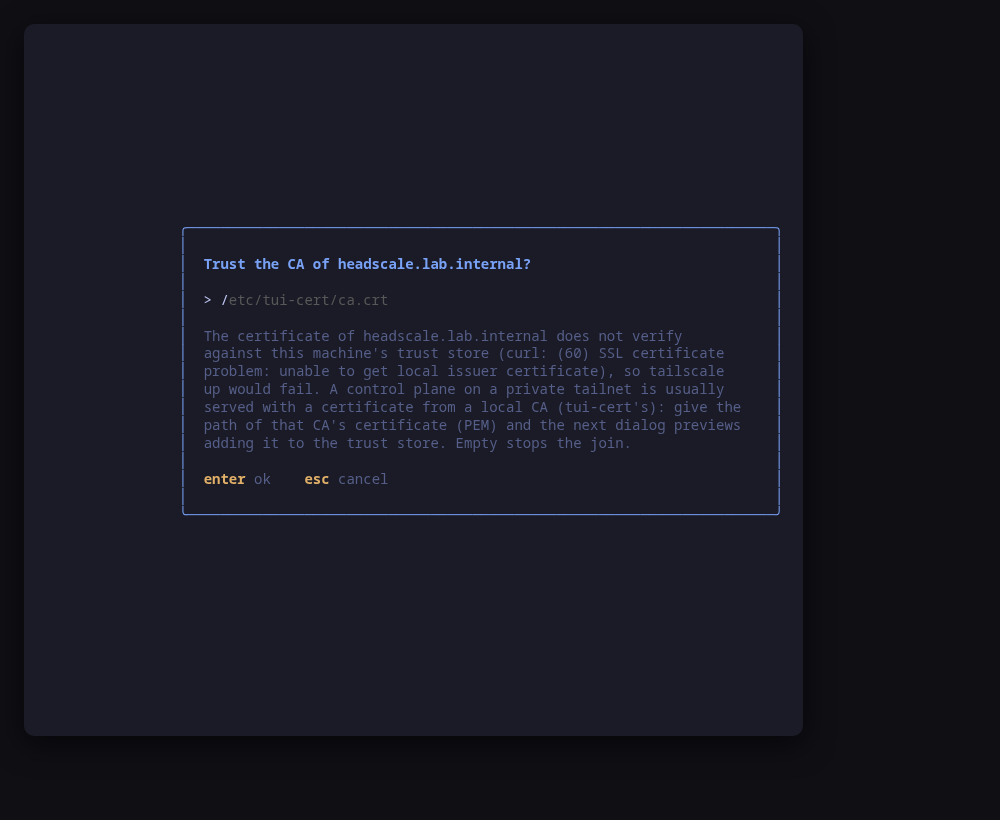
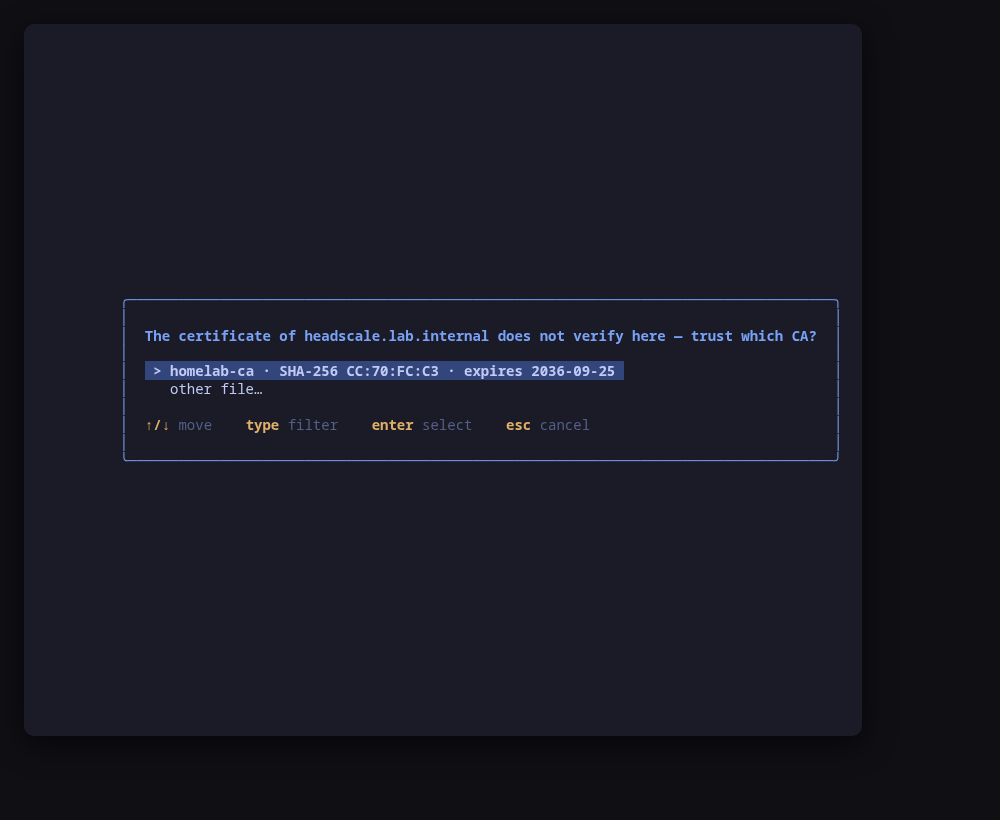
README: Private tailnet walkthrough, stability markers, 0.2.0 install lines
The guide follows the path run in the lab: headscale, tui-cert CA and pair
with owner headscale, S picking the pair, keys instead of OIDC, the CA
copied to each client and trusted in j, and the ports opened through
tui-firewall. New frames for the pair list and the file picker.

Claude-Session: https://claude.ai/code/session_01MbCfX3T8khyd9hsrN5kMo3

diff --git a/README.md b/README.md
@@ -2,9 +2,11 @@
 
 [![OpenSSF Scorecard](https://api.securityscorecards.dev/projects/github.com/tui-tools/tui-tailscale/badge)](https://scorecard.dev/viewer/?uri=github.com/tui-tools/tui-tailscale)
 
+<!-- stability:start -->
 > **Beta.** The family is days old and still changing. Package names, flags
 > and keys may move without notice until 1.0. Pin versions, and report what
 > breaks.
+<!-- stability:end -->
 
 # tui-tailscale
 
@@ -24,7 +26,7 @@ It manages as well as reads. Every change is shown as the exact command line fir
 tui-tailscale --demo
 ```
 
-`--demo` runs every screen against one sample tailnet, both ends of it: a fake node joined to `https://headscale.example.com`, with two peers — `exit-gateway`, which offers itself as an exit node, and `office-router`, which serves a subnet — and the fake control plane that serves them, where the node is registered under `user@example.com` and `office-router` advertises a second subnet nobody approved yet, so `r` has something to approve; a laptop waits to register, so `R` has one to register; the DNS section carries a split domain and an extra record; two join profiles pre-fill `j`, and a login server under `.internal` (`https://headscale.lab.internal`) walks the private-CA step. Its unit runs but is disabled, the way a fresh install is usually left, so the readiness line and the end of `S` and `O` show the enable. Every key works, every command is built and previewed for real, and each confirmed one is applied to the fake — nothing on the host is read or changed.
+`--demo` runs every screen against one sample tailnet, both ends of it: a fake node joined to `https://headscale.example.com`, with two peers — `exit-gateway`, which offers itself as an exit node, and `office-router`, which serves a subnet — and the fake control plane that serves them, where the node is registered under `user@example.com` and `office-router` advertises a second subnet nobody approved yet, so `r` has something to approve; a laptop waits to register, so `R` has one to register; the DNS section carries a split domain and an extra record; two join profiles pre-fill `j`, and a login server under `.internal` (`https://headscale.lab.internal`) walks the private-CA step; the demo's tui-cert keeps a local CA and a pair it issued, so `S`'s own-certificate step and the CA step list them, and the file picker browses a made-up tree. Its unit runs but is disabled, the way a fresh install is usually left, so the readiness line and the end of `S` and `O` show the enable. Every key works, every command is built and previewed for real, and each confirmed one is applied to the fake — nothing on the host is read or changed.
 
 ## Screens
 
@@ -61,11 +63,24 @@ This is the path validated end to end on a real Ubuntu 24.04 host, with Google a
 
 ## Private tailnet
 
-A tailnet with no public DNS name and no Let's Encrypt: headscale on https with a certificate from a local certificate authority (tui-cert issues one), clients that trust that CA, and the host's ports opened by tui-firewall (a cloud image's INPUT chain usually ends in REJECT). The names are examples: `headscale.lab.internal` for the control plane, `/etc/tui-cert/ca.crt` for the CA's certificate.
+A tailnet with no public DNS name and no Let's Encrypt: headscale on https with a certificate from a local certificate authority, clients that trust that CA, and the host's ports opened by tui-firewall (a cloud image's INPUT chain usually ends in DROP or REJECT). [tui-cert](https://tui.tools/tools/tui-cert/) runs the CA; tui-tailscale reads what it issued, so no path is typed. The names are examples: `vpn.internal` and `192.0.2.10` for the control plane, `homelab-ca` for the CA.
 
-1. **Serve the certificate.** `S` on the users screen, transport *own certificate*, and the paths of the certificate and key tui-cert issued for `headscale.lab.internal` (checked from this machine: the account headscale runs as has to be able to read both).
-2. **Open the ports.** The readiness line reads the host firewall and says when `443/tcp` (the control plane) is closed, and whether `41641/udp` (the node's direct connections) is; `f` hands the terminal to tui-firewall to open them, and they are read again when it exits. See [the ports step](#the-next-step).
-3. **Join, trusting the CA.** `j` checks the login server's certificate against this machine's trust store before it runs `tailscale up`. When it does not verify, the join says so and asks for the CA's certificate: typed as a path, previewed as the distribution's own way of adding a trust anchor, then the join goes on:
+On the control plane:
+
+1. **Install headscale.** In tui-tailscale, the users screen (`3`), `i`. It comes first because the package creates the `headscale` account the certificate is handed to.
+2. **Create a CA.** In tui-cert, the local CAs screen (`5`), `N`: a name (`homelab-ca`), the key type and the validity. The key stays on this machine, mode 600.
+3. **Issue the control plane's certificate.** `e` on that CA: common name `vpn.internal`, other names `192.0.2.10` (clients that connect by address need the IP SAN), and owner `headscale:headscale`, so the service can read the pair. It lands in `/etc/tui-cert/issued/vpn.internal/` as `fullchain.pem` and `privkey.pem`.
+4. **Serve the certificate.** `S`, transport *own certificate*, `server_url` `https://vpn.internal` (or `https://192.0.2.10`), `listen_addr` `0.0.0.0:443`. The next step lists the pairs tui-cert issued, by CA, name and expiry:
+
+   ![The pairs tui-cert issued, offered by S](docs/screenshots/tui-tailscale-pairs.png)
+
+   Picking one takes both paths at once, and the form checks from this machine that `headscale` can read them before anything is written. `other file…` opens a file picker for a pair from anywhere else. Then `dns.base_domain` (`tailnet.internal`), the diff, and the enable.
+5. **Skip `O`, use keys.** No identity provider is needed: `n` on the users screen creates a user, and `n` on the preauth keys screen (`5`) a key for it (`1 reusable 2h`, say), shown once.
+
+On each client:
+
+6. **Copy the CA certificate.** tui-cert's `x` on the control plane shows the one line that copies it, the certificate only, to the same place on the client (`/etc/tui-cert/ca/homelab-ca/ca.crt`), and the fingerprint to compare.
+7. **Install tailscale and join.** In tui-tailscale, `i`, then `j` with `https://vpn.internal` and the key. The join checks the login server's certificate against this machine's trust store before it runs `tailscale up`. When it does not verify, it offers the CAs tui-cert keeps on this machine, or opens a file picker in `/etc/tui-cert/ca`; the CA picked is previewed as the distribution's own way of adding a trust anchor, then the join goes on:
 
    | Distribution | Trust step |
    | --- | --- |
@@ -76,6 +91,12 @@ A tailnet with no public DNS name and no Let's Encrypt: headscale on https with 
    ![The CA step of a join](docs/screenshots/tui-tailscale-trust.png)
 
    Each ends with `systemctl restart tailscaled`, because a running daemon keeps the roots it loaded at start. The dialog says what trusting a CA means: every program on the machine that uses the system trust store trusts what it signs. A certificate that is trusted but issued for another name is reported as such, since no CA fixes it.
+
+Back on the control plane:
+
+8. **Open the ports.** The readiness line reads the host firewall and says when the control port (`443/tcp`, the port headscale listens on) is closed, and whether `41641/udp` (the nodes' direct connections) is; `f` hands the terminal to tui-firewall to open them, and they are read again when it exits. See [the ports step](#the-next-step). With the firewall closed a client cannot reach the control plane at all, so on a fresh host this comes before the first join.
+
+This path was run end to end in the family lab on two Ubuntu guests (26.04 as the control plane, 24.04 as the client), with the certificate issued for an IP SAN and the client reaching the control plane by that address.
 
 ## Manage, not view
 
@@ -172,7 +193,7 @@ A control plane comes up in an order, and each step only makes sense once the on
 | install | the `headscale` binary is here | `i` installs it |
 | server | `server_url` is set, valid and not loopback, and `dns.base_domain` is one headscale will start with | `S` sets the transport, `server_url` and `base_domain` |
 | unit | the unit is running, and enabled at boot | how to start it, or that `S` and `O` end with the enable |
-| ports | the host firewall lets new connections reach the `server_url` port (443/tcp for https) | `443/tcp is closed in the host firewall` — `f` opens tui-firewall |
+| ports | the host firewall lets new connections reach the control port: the port in `listen_addr` when headscale binds a public address (a NAT or port forward in front of the host can give clients another one in `server_url`), the `server_url` port behind a reverse proxy | `443/tcp is closed in the host firewall` — `f` opens tui-firewall |
 | identity | OIDC is configured, or a pre-auth key can still register a machine | `O` sets up an identity provider, or `n` on the keys screen creates a key |
 | first node | a node is registered | `j` on the node screen joins this host, or `tailscale up --login-server=…` on another machine; when a node is already waiting for its login, `R` on the nodes screen registers it |
 | routes | no advertised route waits for approval | `routes pending approval (N)` — `r` on the nodes screen |
@@ -215,7 +236,7 @@ Pick the owning user by id and optionally add the words `reusable`, `ephemeral` 
 
 Every transport ends with **`dns.base_domain`**, the MagicDNS domain nodes are named under. It is checked the way headscale checks it at startup: a valid DNS name, required while `dns.magic_dns` is on, and not a suffix of the `server_url` host (MagicDNS owns every name under it, so clients could not reach the control plane, and headscale refuses to start).
 
-A refused answer reopens its own step with the reason on top and what you typed still in it.
+A refused answer reopens its own step with the reason on top and what you typed (or picked) still in it.
 
 **The host is checked, not only the characters.** headscale does not validate the host of `server_url`, so a public IP typed with one digit too many (`http://203.0.113.1000:443`) used to be written and served, and every client then failed on a DNS lookup for a name that looks like an address. A host has to be an IP address that parses, or a DNS name whose last label is not all digits (no top-level domain is numeric). The same check applies to `listen_addr`'s address part and to the OIDC issuer, and a malformed value already in the file is flagged in the panel and shown with its problem when `S` proposes it.
 
@@ -223,7 +244,9 @@ A refused answer reopens its own step with the reason on top and what you typed 
 
 The painless case, a server reached by IP: pick **plain http**, type `http://203.0.113.10:443`, accept the proposed `0.0.0.0:443`, and give a private base domain such as `tailnet.internal`. The diff is three lines.
 
-**An own certificate is checked before it is written.** The form `stat`s the certificate, the key and every directory above them from this machine, and refuses a pair the account headscale runs as cannot reach, naming the file or directory in the way. The pair [tui-cert](https://github.com/tui-tools/tui-cert) issues lives in its root-only `/etc/ssl/tui-cert`, which a `headscale` user cannot enter: its install step copies the pair wherever the service can read it. A path under `/home` or `/tmp` gets a warning, because the packaged unit hides those trees from the service. [tui-firewall](https://github.com/tui-tools/tui-firewall) opens the port, or port 80 for `HTTP-01`.
+**An own certificate is offered, then checked before it is written.** When [tui-cert](https://tui.tools/tools/tui-cert/) is installed, the step after `listen_addr` lists the pairs its local CAs issued (read from `tui-cert --check`, unprivileged), each as `issued by <ca> · <name> (<other names>) · expires <date>`, and picking one takes the certificate and its key together. `other file…`, or a machine without tui-cert (the help then says where tui-cert comes from), opens the kit's file picker instead: a directory listing that lists `.pem` and `.crt` for the certificate, `.pem` and `.key` for the key, opens where the current value is, and takes a typed or pasted path too. Either way the form `stat`s the certificate, the key and every directory above them from this machine, and refuses a pair the account headscale runs as cannot reach, naming the file or directory in the way; the picker reopens with the reason on top. tui-cert's `e` hands the pair to `headscale:headscale` when it issues it. A path under `/home` or `/tmp` gets a warning, because the packaged unit hides those trees from the service. [tui-firewall](https://github.com/tui-tools/tui-firewall) opens the port, or port 80 for `HTTP-01`.
+
+![The file picker, for a pair from elsewhere](docs/screenshots/tui-tailscale-certfile.png)
 
 The confirm dialog shows a **diff of the changed lines and nothing else** (a value already in the file, however it is quoted, is not a change), then the write, then the step that makes headscale read it as a separate, optional confirm (see [The last step: restart, or enable](#the-last-step-restart-or-enable)).
 
@@ -486,7 +509,7 @@ Upgrades then arrive with the rest of your system updates.
 ### Any distribution, static binary
 
 ```sh
-curl -fsSL https://github.com/tui-tools/tui-tailscale/releases/download/v0.1.0/tui-tailscale_0.1.0_linux_amd64.tar.gz | tar -xz tui-tailscale
+curl -fsSL https://github.com/tui-tools/tui-tailscale/releases/download/v0.2.0/tui-tailscale_0.2.0_linux_amd64.tar.gz | tar -xz tui-tailscale
 sudo install -m0755 tui-tailscale /usr/local/bin/tui-tailscale
 ```
 
